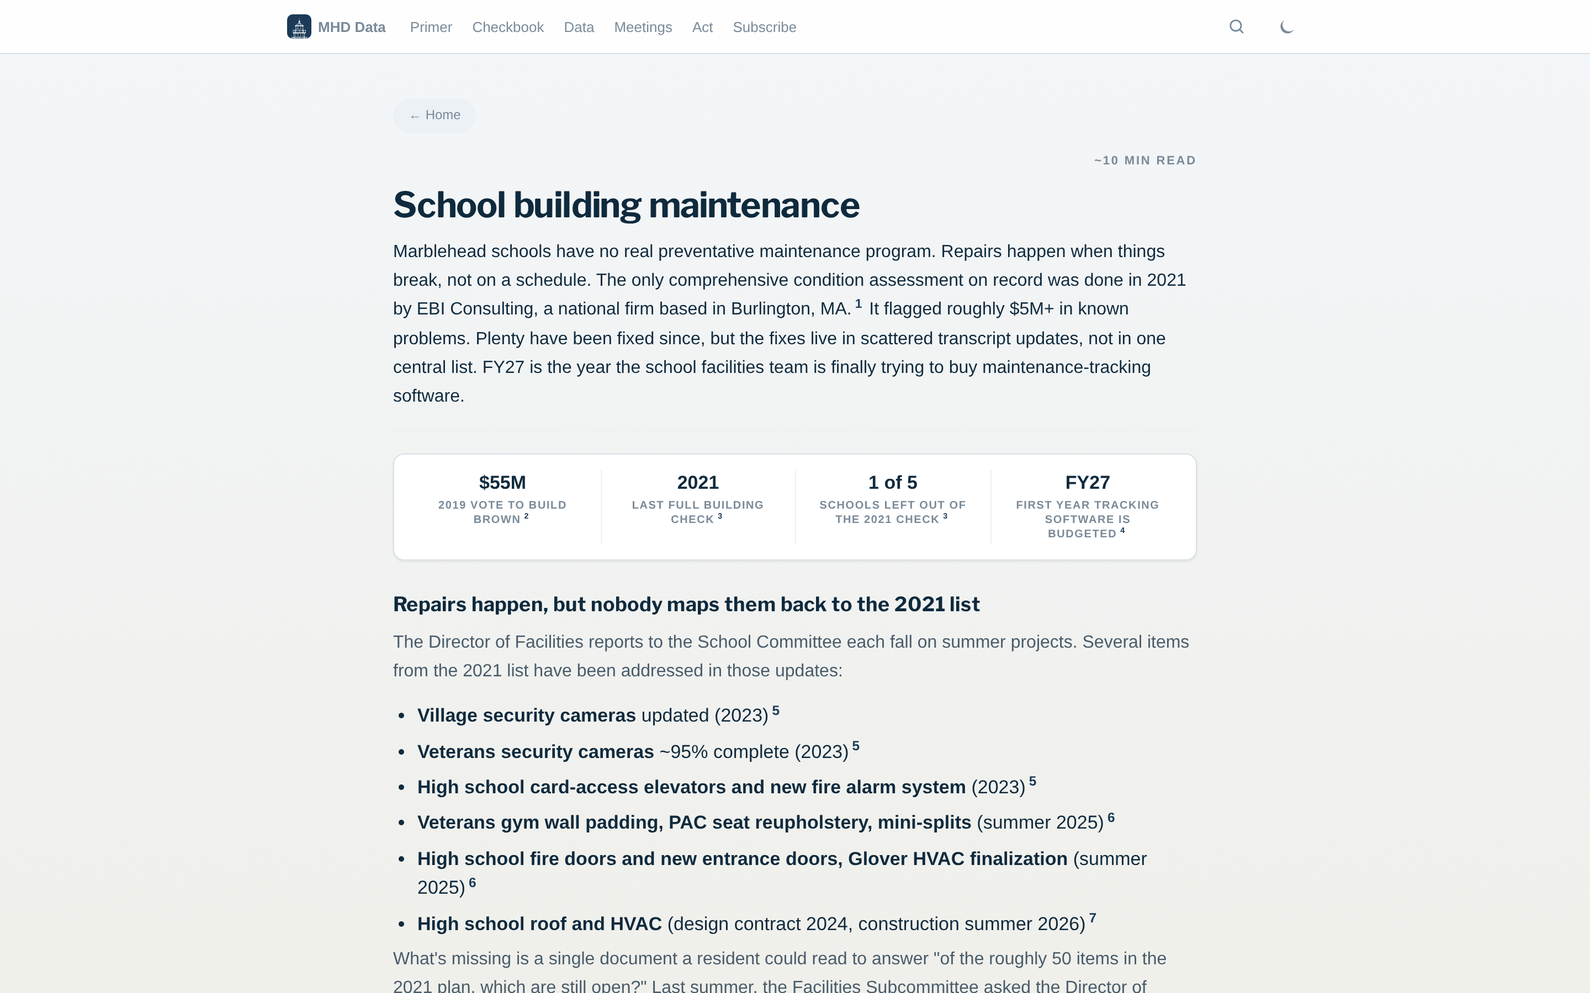
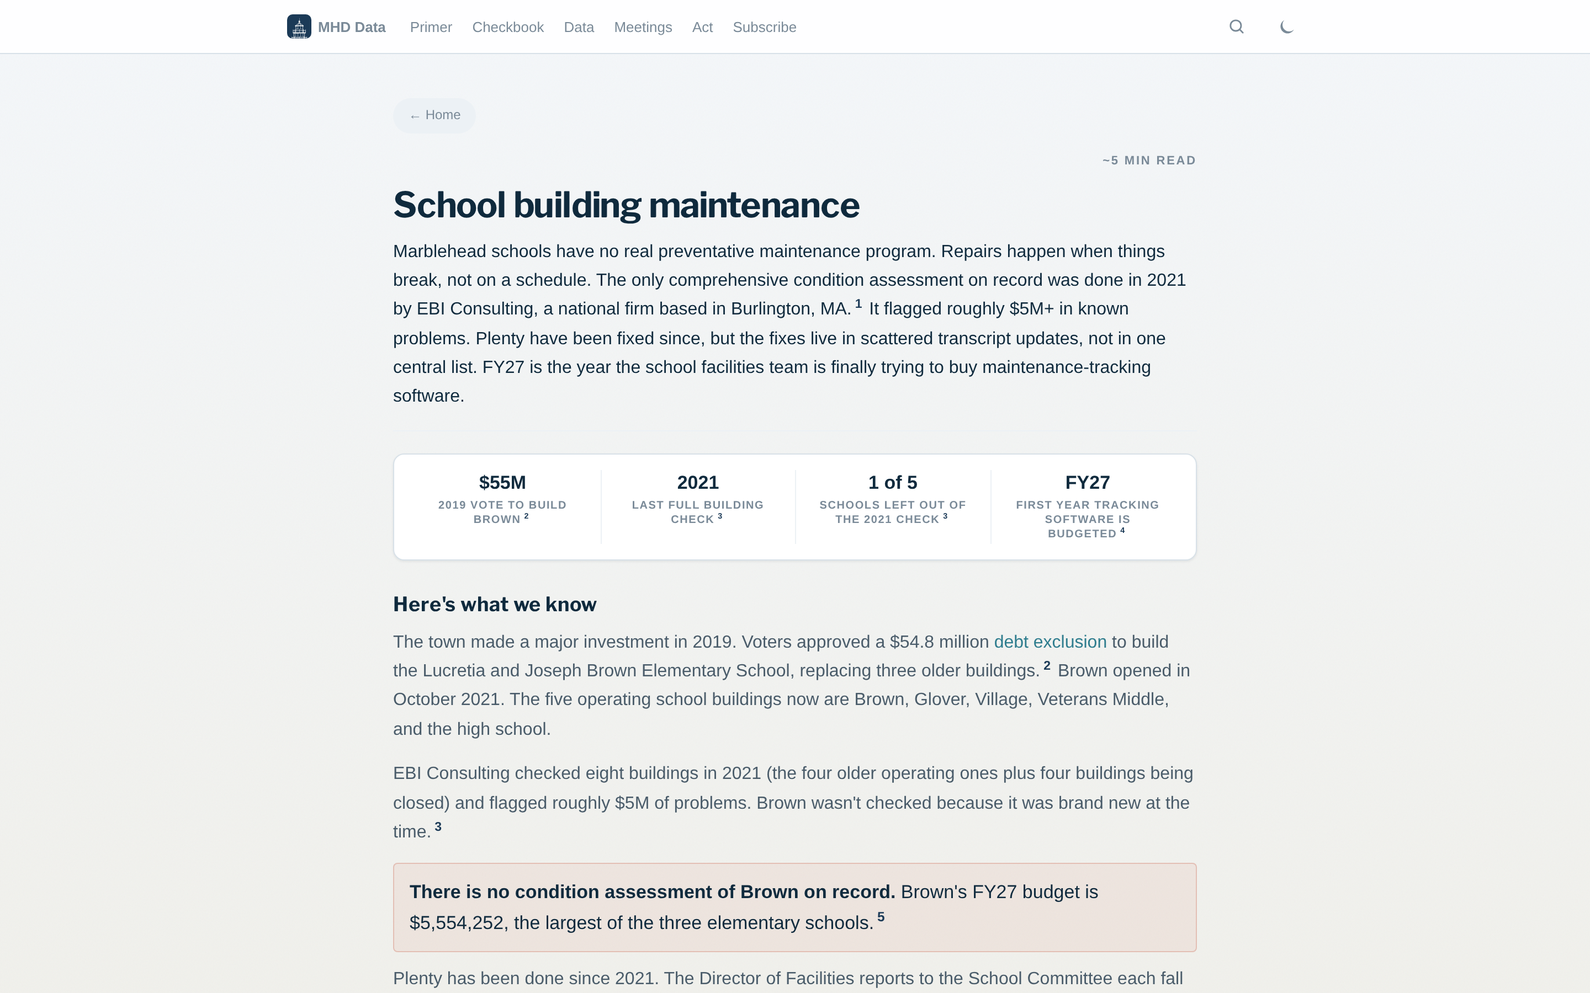
ux(school-buildings): restructure into 3 buckets — Know / Don't Know / Find Out
User feedback: this should be a starting point, not a complete deep
dive. Collapsed nine h2 sections into three:

1. "Here's what we know" — facts, with the bar chart and 4-card
   former-buildings grid kept visible (per user instruction).
   Includes the BCG investment, EBI scope, list of items addressed
   since 2021, Brown gap callout, funding-pots paragraph,
   $500K/year override-funded capital fund, Sarah Fox quote.
2. "Here's what we don't know" — six numbered open questions:
   Brown's condition, Glover HVAC scope (NEW from research), the
   missing Aug 31 2025 status doc, CMMS timing, $500K capital fund
   allocation, Bell School Evaluation Process subject.
3. "Here's how we'll find out" — five concrete asks: watch the
   meetings, ask Mike Pip / Todd Bloodgood about Glover, track
   FY28 budget, attend Facilities Subcommittee, report issues.

Glover HVAC entry pairs the CFO's "designed for 20%" line with the
resident reporting that ductwork is installed but condensers were
cut. Both versions on the page; design intent flagged as the open
question.

Dropped:
- The "BCG investment" H2 + 14-row deep-dive table (Sarah Fox quote
  carries the concrete-example load now)
- The "former school buildings" H2 (the cards are intro'd inline)
- The Veterans D-wing paragraph (one concrete example is enough)
- The standalone "How it gets paid for" and "What's actually
  moving" H2s (folded into "What we know" as paragraphs/sentences)
[…]

Changed region(s): [[0.25, 0.5911, 0.75, 1.0]]

diff --git a/school-building-maintenance.html b/school-building-maintenance.html
@@ -94,54 +94,28 @@ og_url: https://marbleheaddata.org/school-building-maintenance.html
   </div>
 </div>
 
-<h2 id="tracking-gap">Repairs happen, but nobody maps them back to the 2021 list</h2>
+<h2 id="known">Here's what we know</h2>
 
-<p>The Director of Facilities reports to the School Committee each fall on summer projects. Several items from the 2021 list have been addressed in those updates:</p>
+<p>The town made a major investment in 2019. Voters approved a $54.8 million <a href="prop25-story.html">debt exclusion</a> to build the Lucretia and Joseph Brown Elementary School, replacing three older buildings.<sup class="cite" data-href="data/marblehead_prop25_votes.csv" data-source="MA DOR Debt Exclusion record, 6/18/2019 (&quot;Bonds For New Gerry School&quot;)"></sup> Brown opened in October 2021. The five operating school buildings now are Brown, Glover, Village, Veterans Middle, and the high school.</p>
+
+<p>EBI Consulting checked eight buildings in 2021 (the four older operating ones plus four buildings being closed) and flagged roughly $5M of problems. Brown wasn't checked because it was brand new at the time.<sup class="cite" data-href="https://resources.finalsite.net/images/v1741690835/marbleheadschoolsorg/apdgujai29xc5kwrlxsu/capital_facilities_plan.pdf" data-source="Marblehead Public Schools Capital Facilities Plan (2021 EBI)"></sup></p>
+
+<div class="sbm-brown-gap">
+  <strong>There is no condition assessment of Brown on record.</strong> Brown's FY27 budget is $5,554,252, the largest of the three elementary schools.<sup class="cite" data-href="https://resources.finalsite.net/images/v1770394283/marbleheadschoolsorg/abvvnuezygg1rsgil17k/2026Budgetpacket.pdf" data-source="FY27 Superintendent's Proposed Budget packet (Feb 2026)"></sup>
+</div>
+
+<p>Plenty has been done since 2021. The Director of Facilities reports to the School Committee each fall on summer projects, and several 2021 items show up in those updates:</p>
 
 <ul>
   <li><strong>Village security cameras</strong> updated (2023)<sup class="cite" data-href="/meetings/school-committee-2023-09-21/" data-source="School Committee meeting, 9/21/2023 (summer 2023 facilities report)"></sup></li>
   <li><strong>Veterans security cameras</strong> ~95% complete (2023)<sup class="cite" data-href="/meetings/school-committee-2023-09-21/" data-source="School Committee meeting, 9/21/2023 (summer 2023 facilities report)"></sup></li>
   <li><strong>High school card-access elevators and new fire alarm system</strong> (2023)<sup class="cite" data-href="/meetings/school-committee-2023-09-21/" data-source="School Committee meeting, 9/21/2023 (summer 2023 facilities report)"></sup></li>
   <li><strong>Veterans gym wall padding, PAC seat reupholstery, mini-splits</strong> (summer 2025)<sup class="cite" data-href="/meetings/school-committee-2025-09-19/" data-source="School Committee meeting, 9/19/2025 (summer 2025 facilities report)"></sup></li>
-  <li><strong>High school fire doors and new entrance doors, Glover HVAC finalization</strong> (summer 2025)<sup class="cite" data-href="/meetings/school-committee-2025-09-19/" data-source="School Committee meeting, 9/19/2025 (summer 2025 facilities report)"></sup></li>
-  <li><strong>High school roof and HVAC</strong> (design contract 2024, construction summer 2026)<sup class="cite" data-href="/meetings/school-committee-2024-12-05/" data-source="School Committee meeting, 12/5/2024 (HS roof design contract)"></sup></li>
+  <li><strong>HS fire doors and new entrance doors, Glover HVAC finalization</strong> (summer 2025)<sup class="cite" data-href="/meetings/school-committee-2025-09-19/" data-source="School Committee meeting, 9/19/2025 (summer 2025 facilities report)"></sup></li>
+  <li><strong>HS roof and HVAC replacement</strong> in flight: design contract 2024, three small sections done April 2026 vacation, full project summer 2026.<sup class="cite" data-href="/meetings/school-committee-2024-12-05/" data-source="School Committee meeting, 12/5/2024 (HS roof design contract)"></sup></li>
 </ul>
 
-<p>What's missing is a single document a resident could read to answer "of the roughly 50 items in the 2021 plan, which are still open?" Last summer, the Facilities Subcommittee asked the Director of Facilities, Todd Bloodgood, to write exactly that up by August 31, 2025.<sup class="cite" data-href="https://resources.finalsite.net/images/v1773771966/marbleheadschoolsorg/mu7arqhkjquayxneajte/72425facsubminutes.pdf" data-source="Facilities Subcommittee minutes, 7/24/2025"></sup> Three facilities subcommittee meetings have come and gone since (September, November, February), plus eight School Committee meetings between September 2025 and February 2026. The document never showed up in any of them.<sup class="cite" data-href="https://resources.finalsite.net/images/v1773772099/marbleheadschoolsorg/rdnoutavzafjvtswgehp/SCminutes-9_5_25FacilitiesSubcommittee1.pdf" data-source="Facilities Subcommittee &amp; School Committee meetings, Sept 2025–Feb 2026"></sup></p>
-
-<p>The longer-term fix on the table is a CMMS, a computerized maintenance management system. It would barcode every asset, schedule routine work like filter changes and belt swaps, and track which jobs have actually been done.<sup class="cite" data-href="https://resources.finalsite.net/images/v1773771966/marbleheadschoolsorg/mu7arqhkjquayxneajte/72425facsubminutes.pdf" data-source="Facilities Subcommittee minutes, 7/24/2025"></sup> The plan is to buy one in FY27.</p>
-
-<h2 id="bcg-investment">The town did make a major investment: Brown opened in 2021</h2>
-
-<p>On June 18, 2019, voters approved a $54.8 million <a href="prop25-story.html">debt exclusion</a> to build a new elementary school. The ballot question called it the "New Gerry School," after the oldest of the three schools being replaced.<sup class="cite" data-href="data/marblehead_prop25_votes.csv" data-source="MA DOR Debt Exclusion record, 6/18/2019 (&quot;Bonds For New Gerry School&quot;)"></sup> Gilbane built it on Baldwin Road and finished 40 days ahead of schedule. By the time it opened, it had a new name: the Lucretia and Joseph Brown Elementary School. Students walked in on October 13, 2021.<sup class="cite" data-href="/meetings/" data-source="School Committee meetings, 2020–2021 (Brown opening &amp; Bell demolition)"></sup></p>
-
-<p>Brown replaced three older schools: Gerry (built 1906), Coffin (1949, with a 1963 annex), and Bell (Upper Bell 1970, Lower Bell 1958). Both Bell buildings were torn down to make room for Brown.<sup class="cite" data-href="/meetings/" data-source="School Committee meetings, 2020–2021 (Brown opening &amp; Bell demolition)"></sup> Gerry students had already moved out in 2018 after a steam pipe leak. Coffin went vacant when Brown opened.</p>
-
-<p>Marblehead has five operating school buildings. Here's how old they are:</p>
-
-<table class="sbm-table">
-  <thead><tr><th>School</th><th>Built</th><th>Age in 2026</th></tr></thead>
-  <tbody>
-    <tr><td>Marblehead High School</td><td>2002</td><td>24 years</td></tr>
-    <tr><td>Veterans Middle School</td><td>2004</td><td>22 years</td></tr>
-    <tr><td>Village Elementary</td><td>2010</td><td>16 years</td></tr>
-    <tr><td>Glover Elementary</td><td>2014</td><td>12 years</td></tr>
-    <tr><td>Lucretia and Joseph Brown Elementary</td><td>2021</td><td>5 years</td></tr>
-  </tbody>
-</table>
-<p class="caption">Construction years from the 2021 Capital Facilities Plan.<sup class="cite" data-href="https://resources.finalsite.net/images/v1741690835/marbleheadschoolsorg/apdgujai29xc5kwrlxsu/capital_facilities_plan.pdf" data-source="Marblehead Public Schools Capital Facilities Plan (2021 EBI)"></sup></p>
-
-<h2 id="baseline">The 2021 baseline, and what it didn't cover</h2>
-
-<p>The 2021 assessment looked at eight buildings: the high school, Veterans Middle, Village, Glover, plus four older buildings that were closed or about to close (Coffin, Gerry, Upper Bell, Lower Bell).<sup class="cite" data-href="https://resources.finalsite.net/images/v1741690835/marbleheadschoolsorg/apdgujai29xc5kwrlxsu/capital_facilities_plan.pdf" data-source="Marblehead Public Schools Capital Facilities Plan (2021 EBI)"></sup> Brown is missing. It opened the same fall the report was compiled, and assessors seem to have focused on the buildings being closed instead of the new one. Nobody has done a new assessment since.</p>
-
-<div class="sbm-brown-gap">
-  <strong>There is no condition assessment of Brown on record.</strong> The 2021 EBI report doesn't include it (Brown was brand new), and no follow-up assessment has been published since. Brown's FY27 budget is $5,554,252, the largest of the three elementary schools.<sup class="cite" data-href="https://resources.finalsite.net/images/v1770394283/marbleheadschoolsorg/abvvnuezygg1rsgil17k/2026Budgetpacket.pdf" data-source="FY27 Superintendent's Proposed Budget packet (Feb 2026)"></sup>
-</div>
-
-<h2 id="operating-backlog">What 2021 identified at operating schools</h2>
-
-<p>Most of the $5M sits at buildings the district was about to close. Only about $1M was at schools still in use today. Here's the breakdown:</p>
+<p>Most of the 2021 backlog dollars sit at the four buildings that aren't schools anymore. Only about $1M of the $5M sits at the four operating schools EBI checked.</p>
 
 <div class="sbm-caveat-banner">
   These numbers are from 2021. Some items on this list have been addressed since (see above); this is the snapshot in time, not a current backlog.
@@ -179,35 +153,7 @@ og_url: https://marbleheaddata.org/school-building-maintenance.html
 
 <p class="caption">Items with price tags only. The 2021 plan flagged plenty of other issues without putting a dollar amount on them. The high-school roof, which is the biggest active project in the district right now, was one of those: noted as "persistent leaks &mdash; maintenance issue" but not priced.<sup class="cite" data-href="https://resources.finalsite.net/images/v1741690835/marbleheadschoolsorg/apdgujai29xc5kwrlxsu/capital_facilities_plan.pdf" data-source="Marblehead Public Schools Capital Facilities Plan (2021 EBI)"></sup></p>
 
-<details class="deep-dive">
-  <summary><span class="deep-dive-summary">Full 2021 item list for operating schools<span class="arrow">&#x25B8;</span></span></summary>
-  <div class="deep-dive-body">
-    <table class="sbm-table">
-      <thead><tr><th>Building</th><th>Category</th><th>2021 estimate</th><th>Condition note (verbatim)</th></tr></thead>
-      <tbody>
-        <tr><td>High School</td><td>Tennis Courts</td><td>$300,000</td><td>by resurfacing</td></tr>
-        <tr><td>High School</td><td>Door Hardware &amp; Locks</td><td>$150,000</td><td>Ongoing maintenance and repair issues. Building key system not consistent &mdash; re-key needed</td></tr>
-        <tr><td>High School</td><td>Hot Water Tanks</td><td>$100,000</td><td>one heat bundle replaced &mdash; system near end of life span</td></tr>
-        <tr><td>High School</td><td>Gym Lights</td><td>$56,000</td><td>Ballast buzz, some have been replaced and still buzz. LED replacement estimated cost</td></tr>
-        <tr><td>High School</td><td>Flooring</td><td>$50,000</td><td>Library carpets heavily stained, some VCT issues</td></tr>
-        <tr><td>High School</td><td>Gym Floor</td><td>$30,000</td><td>flooring has been resurfaced yearly. Wood boards are rippled from moisture and have heaved several times.</td></tr>
-        <tr><td>High School</td><td>HVAC System</td><td>$30,000</td><td>System needs balancing</td></tr>
-        <tr><td>High School</td><td>Gym Divider Curtains</td><td>$25,000</td><td>Curtains are torn and in poor condition. Need immediate replacement</td></tr>
-        <tr><td>High School</td><td>Exterior Lighting</td><td>$20,000</td><td>security lighting for lower fields</td></tr>
-        <tr><td>High School</td><td>Security</td><td>$10,000</td><td>no swipe card system or panic buttons</td></tr>
-        <tr><td>High School</td><td>Gym Wall pads</td><td>$7,500</td><td>pads are damaged from balls &mdash; ripped in places &mdash; needs replacement</td></tr>
-        <tr><td>Veterans Middle</td><td>Security</td><td>$100,000</td><td>no swipe card system or panic buttons &mdash; no security cameras, no single lock down key</td></tr>
-        <tr><td>Veterans Middle</td><td>Flooring</td><td>$75,000</td><td>library needs to be replaced</td></tr>
-        <tr><td>Village Elementary</td><td>Security</td><td>$50,000</td><td>no panic buttons &mdash; limited number of security cameras</td></tr>
-      </tbody>
-    </table>
-    <p class="caption">Source: Marblehead Public Schools Capital Facilities Plan, derived from 2021 EBI assessments.<sup class="cite" data-href="https://resources.finalsite.net/images/v1741690835/marbleheadschoolsorg/apdgujai29xc5kwrlxsu/capital_facilities_plan.pdf" data-source="Marblehead Public Schools Capital Facilities Plan (2021 EBI)"></sup> Glover (built 2014) has no dollar-tagged items in the plan.</p>
-  </div>
-</details>
-
-<h2 id="former-buildings">The former school buildings carry most of the 2021 dollars</h2>
-
-<p>Most of the 2021 dollars are at buildings that aren't schools anymore. They aren't really "deferred maintenance" at this point. They're decisions about what to do with empty buildings.</p>
+<p>The former buildings aren't really "deferred maintenance" at this point. They're decisions about what to do with empty buildings:</p>
 
 <div class="sbm-cards">
   <article class="sbm-card">
@@ -249,41 +195,34 @@ og_url: https://marbleheaddata.org/school-building-maintenance.html
   </article>
 </div>
 
-<h2 id="when-it-bites">What deferred maintenance looks like when it bites</h2>
+<p>The money for all this comes from two pots. Big projects like the high school roof go in the capital plan. Everything reactive comes out of the operating budget. In March 2026 alone, surprise HVAC repairs at Brown and Glover, plus bus and elevator repairs, pulled about $614,000 out of the operating reserve in a single month.<sup class="cite" data-href="/meetings/school-committee-2026-04-09/" data-source="School Committee meeting, 4/9/2026 (FY27 budget hearing)"></sup> Voters added a third pot on June 9, 2026: the school side of the override includes a new <strong>building capital fund of $500,000 a year, every year</strong>.<sup class="cite" data-href="2026-override/index.html" data-source="June 9 2026 override results (marbleheaddata.org)"></sup></p>
 
-<p>In April 2024, then-chair Sarah Fox walked the high school during a Northeaster to see the leaks firsthand. Her report two weeks later at the School Committee meeting:</p>
+<p>And the maintenance-tracking software (the CMMS) is supposed to land in FY27. It would barcode every asset, schedule routine work, and finally track which jobs have been done.<sup class="cite" data-href="https://resources.finalsite.net/images/v1773771966/marbleheadschoolsorg/mu7arqhkjquayxneajte/72425facsubminutes.pdf" data-source="Facilities Subcommittee minutes, 7/24/2025"></sup></p>
+
+<p>What does it actually look like to live with the older systems? In April 2024, then-chair Sarah Fox walked the high school during a Northeaster and described what she saw two weeks later at the School Committee meeting:</p>
 
 <blockquote class="quote">
   <p>"As we walked, I was shown classrooms that had leaks and how they were being mitigated. As our walk continued, if teachers noticed us, they would pop out of their classrooms to report new leaks or leaks that were stopped, but it started up again. The custodians were everywhere with buckets and mops trying to keep up with the leaks &hellip; what is clear to me is that the continued priority must be made to move forward with a new replacement roof."</p>
   <footer>Marblehead School Committee meeting, April 25, 2024. <a href="/meetings/school-committee-2024-04-25/">Transcript</a>.</footer>
 </blockquote>
 
-<p>Veterans Middle School got hit a different way in February 2026. A roofing subcontractor wrapped the new membrane over the drainage holes. The next rain ran under the roof and flooded the classrooms below. Insurance covered the new ceiling tiles, lighting, outlets, sprinklers, smoke detectors, pull stations, and horn strobes. The district refused to pay the contractor until everything was fixed. A classroom or two had to be relocated. MHTV (Marblehead's community TV station), which records its programming from the D-wing, still hasn't moved back in.<sup class="cite" data-href="https://resources.finalsite.net/images/v1773772039/marbleheadschoolsorg/mnbn4dk4tvqwsj3bhuzb/SCminutes-2_13_26FacilitiesSubcommittee1.pdf" data-source="Facilities Subcommittee minutes, 2/13/2026"></sup></p>
-
-<h2 id="how-paid">How it gets paid for</h2>
-
-<p>The money comes from two pots. Big projects like the high school roof go in the capital plan. Everything reactive comes out of the operating budget. The reactive bills bounce around. In March 2026 alone, surprise HVAC repairs at Brown and Glover, plus bus and elevator repairs, pulled about $614,000 out of the operating reserve in a single month.<sup class="cite" data-href="/meetings/school-committee-2026-04-09/" data-source="School Committee meeting, 4/9/2026 (FY27 budget hearing)"></sup></p>
-
-<p>The FY27 budget tightened things further. It cut one full-time maintenance position and moved half of a Facilities Assistant off the school payroll onto rental revenue, as part of $3.2 million in total reductions.<sup class="cite" data-href="/meetings/school-committee-2026-04-09/" data-source="School Committee meeting, 4/9/2026 (FY27 budget hearing)"></sup></p>
-
-<p>Then voters changed the math. On June 9, 2026, Marblehead approved Tier 3 of the override at $15 million ($8.5 million for the schools). The school side includes a new line: a <strong>building capital fund of $500,000 a year, every year</strong>.<sup class="cite" data-href="2026-override/index.html" data-source="June 9 2026 override results (marbleheaddata.org)"></sup> So FY27 cuts day-to-day maintenance staff in the base budget while the override adds money for planned replacements.</p>
-
-<h2 id="moving">What's actually moving</h2>
-
-<ul>
-  <li><strong>High school roof and HVAC.</strong> Three small sections done over April 2026 vacation. The full project happens summer 2026. New HVAC equipment arrives in July.<sup class="cite" data-href="/meetings/school-committee-2026-04-09/" data-source="School Committee meeting, 4/9/2026 (FY27 budget hearing)"></sup></li>
-  <li><strong>Override passed.</strong> Voters approved Tier 3 on June 9, 2026.<sup class="cite" data-href="2026-override/index.html" data-source="June 9 2026 override results (marbleheaddata.org)"></sup> The school side includes the new $500K/year building capital fund. The School Committee unanimously endorsed Tier 3 a few weeks earlier on May 21.<sup class="cite" data-href="/meetings/school-committee-2026-05-21/" data-source="School Committee meeting, 5/21/2026 (Tier 3 override proclamation)"></sup></li>
-  <li><strong>Maintenance-tracking software.</strong> Purchase planned for FY27.</li>
-  <li><strong>Coffin School future.</strong> Community meeting #3 was May 20.<sup class="cite" data-href="https://marbleheadma.gov/coffin-school-adaptive-reuse/" data-source="Town of Marblehead Coffin School Adaptive Reuse page."></sup></li>
-  <li><strong>Veterans D-wing.</strong> Repaired. MHTV hasn't moved back in yet.</li>
-</ul>
-
-<h2 id="open-questions">Open questions worth asking</h2>
+<h2 id="unknown">Here's what we don't know</h2>
 
 <ol>
-  <li>Did the August 31, 2025 written status of each building ever get done?</li>
-  <li>When does the maintenance-tracking software purchase happen?</li>
-  <li>The override added $500,000 a year for school buildings. When does the first round go out, and on what?</li>
-  <li>The "Bell School Evaluation Process" is mentioned in the 2025&ndash;26 minutes, but Bell was torn down in 2020. What's actually being evaluated?</li>
-  <li>Did EBI Consulting (or any firm) do an updated assessment of the operating schools after the 2021 one, including Brown?</li>
+  <li><strong>Brown's condition.</strong> Brown opened in 2021 and was never part of the EBI assessment. Five years later, there's still no comprehensive condition assessment of the largest elementary school on record.</li>
+  <li><strong>Glover's HVAC scope.</strong> The CFO told the School Committee that Glover's HVAC was "only about 20% of the building, 'cause that's all that was designed for."<sup class="cite" data-href="/meetings/school-committee-2025-09-19/" data-source="School Committee meeting, 9/19/2025 (summer 2025 facilities report)"></sup> Multiple residents have reported that the ductwork is installed throughout the building but the AC condensers were never installed, suggesting the original design was for 100% coverage and the install was scoped down. The two stories may or may not be the same thing. The original 2014 design intent isn't on the public record.</li>
+  <li><strong>The August 31, 2025 building-status document.</strong> The Facilities Subcommittee asked for one; eleven subsequent meetings have not mentioned it.<sup class="cite" data-href="https://resources.finalsite.net/images/v1773772099/marbleheadschoolsorg/rdnoutavzafjvtswgehp/SCminutes-9_5_25FacilitiesSubcommittee1.pdf" data-source="Facilities Subcommittee &amp; School Committee meetings, Sept 2025–Feb 2026"></sup></li>
+  <li><strong>The CMMS purchase timing.</strong> "Target FY27" but no procurement on the public record yet.</li>
+  <li><strong>How the $500K/year capital fund gets deployed.</strong> The override added the line; allocation hasn't been published.</li>
+  <li><strong>What the "Bell School Evaluation Process" is evaluating.</strong> Bell was torn down in 2020. The notes mention services for 18&ndash;22-year-old students. The actual subject of the evaluation isn't clear from the minutes.<sup class="cite" data-href="https://resources.finalsite.net/images/v1770324212/marbleheadschoolsorg/hbrhsxcenhkwr9bipzo5/SchoolCommitteeMinutes11-6-25.pdf" data-source="School Committee minutes, 11/6/2025"></sup></li>
+</ol>
+
+<h2 id="find-out">Here's how we'll find out</h2>
+
+<ol>
+  <li><strong>Watch the meetings.</strong> The Facilities Subcommittee and the School Committee both meet about monthly. <a href="/meetings/">Recent transcripts</a> are searchable.</li>
+  <li><strong>Ask Mike Pip (CFO) or Todd Bloodgood (Director of Facilities) about Glover.</strong> What was the 2014 HVAC design intent, and what changed between design and install?</li>
+  <li><strong>Track the FY28 budget.</strong> That's when the first $500K capital fund allocation should appear with line items.</li>
+  <li><strong>Attend the Facilities Subcommittee.</strong> Agendas are posted at <a href="https://www.marbleheadschools.org/school-committee">marbleheadschools.org/school-committee</a>.</li>
+  <li><strong>If you see a leak or a broken system, tell the school.</strong> Without the CMMS, reactive reporting is the only way the district knows about a lot of issues.</li>
 </ol>
